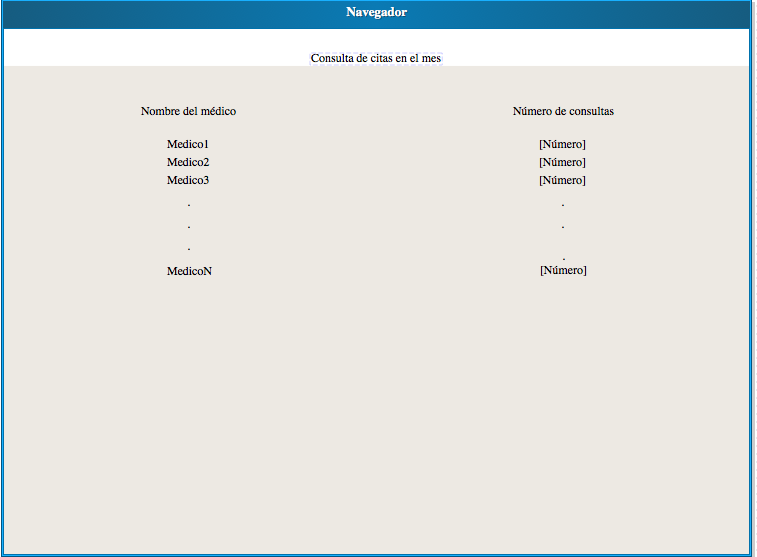
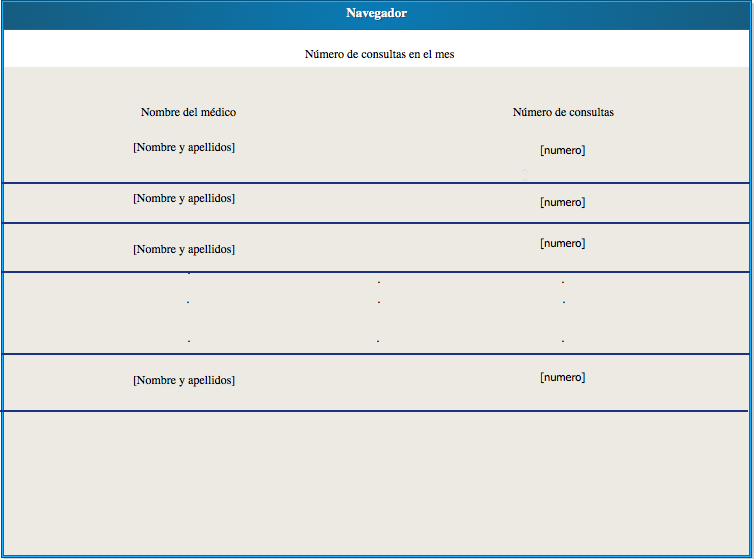
agregando ui a casos de uso, arreglando UI de consulta citas, cambiando ishikawa

diff --git a/documento_analisis/ModeloComportamiento/RegistrarPaciente/RegistrarPaciente.tex b/documento_analisis/ModeloComportamiento/RegistrarPaciente/RegistrarPaciente.tex
@@ -41,8 +41,8 @@
     }
     \UCitem{Origen}{
         \begin{itemize}
-            \item Desde actor paciente: Variable de sesión.
-            \item Desde actor Médico: Repositorio de datos.
+            \item Teclado: Email, Nombre, Calle, Número, Colonia, Teléfono particular, Teléfono de emergencia, Contraseña
+            \item Select(tipo de input html) :Sexo,País, Estado.
         \end{itemize}
     }
     \UCitem{Salidas}{Mensaje:``Paciente registrado correctamente''}
@@ -78,16 +78,16 @@
 \end{UseCase}
 
 \begin{UCtrayectoria}{Enfermera}
-		\UCpaso[\UCactor] selecciona "Registrar nuevo paciente" dando click en dicho apartado.
-		\UCpaso solicita al actor los datos del paciente mostrando un formulari
+		\UCpaso[\UCactor] selecciona "Registrar  paciente" dando click en dicho apartado.
+		\UCpaso solicita al actor los datos del paciente mostrando un formulario mostrando la UI ``UIRegPaciente" monstrada en el apartado 7.0.7
         \UCpaso [\UCactor] Proporciona los datos al sistema ingresandolos en el formulario.
-         \UCpaso [\UCactor] Confirma la operación haciendo click en el botón ``Registrar paciente"
-         \UCpaso Verifica que el nombre sea una cadena de caracteres con longitud mayor o igual a 10 caracteres[TAValida]
+         \UCpaso [\UCactor] Confirma la operación haciendo click en el botón ``Guardar"
+         \UCpaso Verifica que el nombre sea una cadena de caracteres [TAValida]
          \UCpaso Verifica que la fecha de nacimiento sea una fecha válida [TAValida]
          \UCpaso Verifica que el teléfono sea numérico y de longitud de 8 o más caracteres [TAValida]
          \UCpaso El sistema verifica que el correo electrónico sea válido [TAValida]
          \UCpaso Verifica que el correo electrónico no pertenezca a un paciente ya registrado [TACorreo].
-		\UCpaso Verifica que la contraseña tenga longitud de 8 o más caracteres [TAValida]
+		\UCpaso Verifica que la contraseña coincida con el otro campo de contraseña [TAValida]
         \UCpaso Muestra mensaje.
         
 
@@ -113,7 +113,7 @@
 
 
 \begin{UCtrayectoriaA}{TACorreo}{Ya existe un paciente registrado con el correo electrónico ingresado.}
-\UCpaso Notifica el campo de correo electrónico mostrando un mensaje en pantalla.
+\UCpaso Notifica el campo de correo electrónico mostrando el mensaje "Paciente ya registrado" en pantalla.
 \UCpaso Solicita ingresar un correo electrónico diferente en el formulario.
 
 \UCpaso [\UCactor] El actor ingresa otro correo electrónico en el campo “Correo electrónico” del formulario.

diff --git a/documento_analisis/ModeloComportamiento/ConsultarCitasMedico/ConsultarCitasMedico.tex b/documento_analisis/ModeloComportamiento/ConsultarCitasMedico/ConsultarCitasMedico.tex
@@ -15,7 +15,7 @@
     \UCitem{Propósito}{Conocer el número de consultas dadas en el mes o en el día por cada médico.}
     \UCitem{Entradas}{
         \begin{itemize}
-            \item Fecha: Formato dd/mm/aaaa 
+            \item Fecha: Formato aaaa/mm/dd
         \end{itemize} 
     }
     \UCitem{Origen}{
@@ -27,7 +27,7 @@
         \begin{itemize}
             \item Lista médicos
         \begin{itemize}
-            \item *Nombre: Constituido por nombre del producto
+            \item *Nombre: Constituido por nombre(s) y apellido(s) del medico
             \item Número de consultas dadas: Número entero.
            
         \end{itemize}
@@ -56,23 +56,23 @@
     \UCitem{Prioridad}{Alta}
     \UCitem{Volatilidad}{Baja}
     \UCitem{Madurez}{Baja}
-    \UCitem{Estado}{En edición}
+    \UCitem{Estado}{Terminado}
     \UCitem{Autor}{Rubén Murga Dionicio}
     \UCitem{Revisor}{David Pacheco Soto}
     
 \end{UseCase}
 
 \begin{UCtrayectoria}{Gerente  [consultas diarias]}
-        \UCpaso[\UCactor] selecciona "Consultar actividad de hoy" dando click en dicho apartado.
+        \UCpaso[\UCactor] selecciona "Consultar actividad diaria" dando click en dicho apartado.
         
-        \UCpaso Muestra una lista de los medicos con el número de consultas dadas en el día, además los datos de salida especificados en dicho apartado [TA1]
+        \UCpaso Muestra una lista de los medicos con el número de consultas dadas en el día, además los datos de salida especificados en dicho apartado. Esta información se muestra la UI7ConsultarConsultasDiarias   en el apartado 7.0.11 [TA1]
 
 \end{UCtrayectoria}
 
 \begin{UCtrayectoria}{Gerente  [consultas mensuales]}
         \UCpaso[\UCactor] selecciona "Consultar actividad mensual" dando click en dicho apartado.
         
-        \UCpaso Muestra una lista de los medicos con el número de consultas dadas en el mes, además de los datos de salida especificados en dicho apartado [TA1]
+        \UCpaso Muestra una lista de los medicos con el número de consultas dadas en el mes, además de los datos de salida especificados en dicho apartado. Esta información se muestra  la UI7ConsultarConsultasMensuales en el apartado 7.0.12 [TA1]
 
 \end{UCtrayectoria}
 

diff --git a/documento_analisis/ModeloComportamiento/ConsultarExpediente/ConsultarExpediente.tex b/documento_analisis/ModeloComportamiento/ConsultarExpediente/ConsultarExpediente.tex
@@ -12,16 +12,11 @@
 \begin{UseCase}{Cu10}{Consultar expediente médico}{El actor desea consultar el expediente médico.}
     \UCitem{Versión}{0.1}
     \UCitem{Actor}{Médico,Paciente}
-    \UCitem{Propósito}{Conocer los antecedentes médicos del segundo actor.}
+    \UCitem{Propósito}{Conocer los antecedentes médicos del actor paciente.}
     \UCitem{Entradas}{
         \begin{itemize}
-            \item Email del paciente: cadena de texto compuesta de 4 partes:  
-            \begin{itemize}
-                \item cadena de texto.
-                \item carácter ‘@’
-                \item cadena que identifica al servidor que brinda el servicio de correo electrónico
-                \item carácter ‘.’ y dominio
-            \end{itemize}
+            \item ID del paciente: Identificador único que identifica al paciente en el repositorio de datos  
+          
         \end{itemize} 
     }
     \UCitem{Origen}{
@@ -177,6 +172,7 @@
     	\begin{itemize}
     	\item Si el paciente no cuenta con un expediente el médico debe crearle uno.
     	\item Los elementos marcados con un '*' son obligatorios de mostrar.
+    	\item Existen elementos que son mínimo uno, para esos elementos se hará una lista para mostrarlos todos.
     	\end{itemize}
 
        
@@ -199,14 +195,9 @@
         \UCpaso[\UCactor] selecciona "Próximas citas" dando click en dicho apartado.
         
         \UCpaso Muestra un listado de todas las citas próximas que tiene agendadas. 
-        \UCpaso[\UCactor] Da click en el nombre del paciente que es uno de los elementos en la lista.[RN13][RN8]
-        \UCpaso Muestra todos los datos de salida especificados en el apartado de salias.[TA1]
+        \UCpaso[\UCactor] Da click en el botón``Dar consulta" que se encuentra alado del paciente.[RN13][RN8]
+        \UCpaso Muestra la  UI10ConsultExp con todos los datos de salida especificados en el apartado de salidas.
 \end{UCtrayectoria}
-
-\begin{UCtrayectoriaA}{TA1}{Datos sin valor}
-    \UCpaso El sistema muestra los datos que no tienen valor como ``Sin valor''
-    
-\end{UCtrayectoriaA}
 
 \begin{UCtrayectoria}{Paciente}
         \UCpaso[\UCactor] Selecciona ``Mi expediente'' dando click en dicho apartado.[TA2][RN8]

diff --git a/documento_analisis/ModeloInteraccion/Murga/IU.tex b/documento_analisis/ModeloInteraccion/Murga/IU.tex
@@ -53,7 +53,7 @@
 
 
 
-\subsection{UIConsultExp Consultar expediente}
+\subsection{UI10ConsultExp Consultar expediente}
 
 \subsubsection{Objetivo}
     Realizar la visualizacíón del expediente médifo del paciente. 
@@ -91,7 +91,7 @@
     \end{Citemize}
 
 
-\subsection{UI Consultar ventas diarias}
+\subsection{UI7ConsultarVentasDiarias Consultar ventas diarias}
 \subsubsection{Objetivo}
 Poder tener un registro visual de las ventas que se han hecho en el día actual.
 \subsubsection{Diseño}
@@ -106,7 +106,7 @@ Poder tener un registro visual de las ventas que se han hecho en el día actual.
     \end{figure}
     
 
-\subsection{UI Consultar ventas mensuales}
+\subsection{UI7ConsultarVentasMensuales Consultar ventas mensuales}
 \subsubsection{Objetivo}
 Poder tener un registro visual de las ventas que se han hecho en el mes actual.
 \subsubsection{Diseño}
@@ -121,7 +121,7 @@ Poder tener un registro visual de las ventas que se han hecho en el mes actual.
     \end{figure}
     
 
-\subsection{UI Consultar número de citas diarias}
+\subsection{UI6ConsultarConsultasDiarias Consultar número de consultas diarias}
 \subsubsection{Objetivo}
 Poder tener un registro visual del número de consultas que ha dado el médico el día de hoy.
 \subsubsection{Diseño}
@@ -135,7 +135,8 @@ Poder tener un registro visual del número de consultas que ha dado el médico e
             
     \end{figure}
  
- \subsection{UI Consultar número de consultas mensuales}
+ 
+ \subsection{UI6ConsultarConsultasMensuales Consultar número de consultas mensuales}
 \subsubsection{Objetivo}
 Poder tener un registro visual del número de consultas que ha dado el médico en el mes actual.
 \subsubsection{Diseño}

diff --git a/documento_analisis/ModeloComportamiento/ConsultarVentas/ConsultarVentas.tex b/documento_analisis/ModeloComportamiento/ConsultarVentas/ConsultarVentas.tex
@@ -63,17 +63,17 @@
 \end{UseCase}
 
 \begin{UCtrayectoria}{Gerente  [ventas diarias]}
-        \UCpaso[\UCactor] selecciona "Ventas de hoy" dando click en dicho apartado.
+        \UCpaso[\UCactor] selecciona "Consultar ventas diarias" dando click en dicho apartado.
         
-        \UCpaso Muestra una lista de las venta  en el día con los datos de salida especificados en dicho apartado [TA1]
+        \UCpaso Muestra una lista de las venta  en el día con los datos de salida especificados en dicho apartado. Esta información se muestra la UI7ConsultarVentasDiarias 7.0.9 [TA1]
 
 \end{UCtrayectoria}
 
 
 \begin{UCtrayectoria}{Gerente  [ventas mensuales]}
-        \UCpaso[\UCactor] selecciona "Ventas mensuales" dando click en dicho apartado.
+        \UCpaso[\UCactor] selecciona "Consultar ventas mensuales" dando click en dicho apartado.
         
-        \UCpaso informa al actor un listado  de las ventas en el mes mostrando la lista con los datos de salida especificados en dicho apartado [TA1]
+        \UCpaso informa al actor un listado  de las ventas en el mes mostrando la lista con los datos de salida especificados en dicho apartado. Esta información se muestra la UI7ConsultarVentasMensuales que se encuentra en el apartado 7.0.10 [TA1]
 
 \end{UCtrayectoria}
 

diff --git a/src/AppBundle/Form/Type/Paciente/PacienteType.php b/src/AppBundle/Form/Type/Paciente/PacienteType.php
@@ -120,7 +120,8 @@ class PacienteType extends AbstractType
                    'attr' => array(
                        'class' => 'form-control',
                        'placeholder' => 'telefonoParticular',
-                       'ng-model'=> 'paciente.telefonoParticular' ),
+                       'ng-model'=> 'paciente.telefonoParticular',
+                       'min' => '8'),
                    'label' => 'Télefono particular',
                    'required' => true )
            )

diff --git a/src/AppBundle/Controller/Gerente/GerenteController.php b/src/AppBundle/Controller/Gerente/GerenteController.php
@@ -115,7 +115,7 @@ class GerenteController extends Controller
 
         }
 
-        return $this->render(':Gerente/actividad:consultarArticulosVendidos.html.twig', array('articulos'=>$ventasRegreso, 'mensaje'=>"el dia de hoy"));
+        return $this->render(':Gerente/actividad:consultarArticulosVendidos.html.twig', array('articulos'=>$ventasRegreso, 'mensaje'=>"el dia"));
     }
 
     public function getArticulosVendidosMesAction(Request $request)

diff --git a/documento_analisis/Analisis/Problematica.tex b/documento_analisis/Analisis/Problematica.tex
@@ -128,7 +128,7 @@ La clínica no cuenta con un control de citas, ni con un control de inventario, 
 		\caption{Diagrama de Ishikawa.}
 	\end{figure}
     
-En la figura 2.2 podemos observar: \\
+En la figura 2.5 podemos observar: \\
 Personal
 \begin{itemize}
 	\item Los historiales médicos pueden traspapelarse o ser extraviados por el personal.
